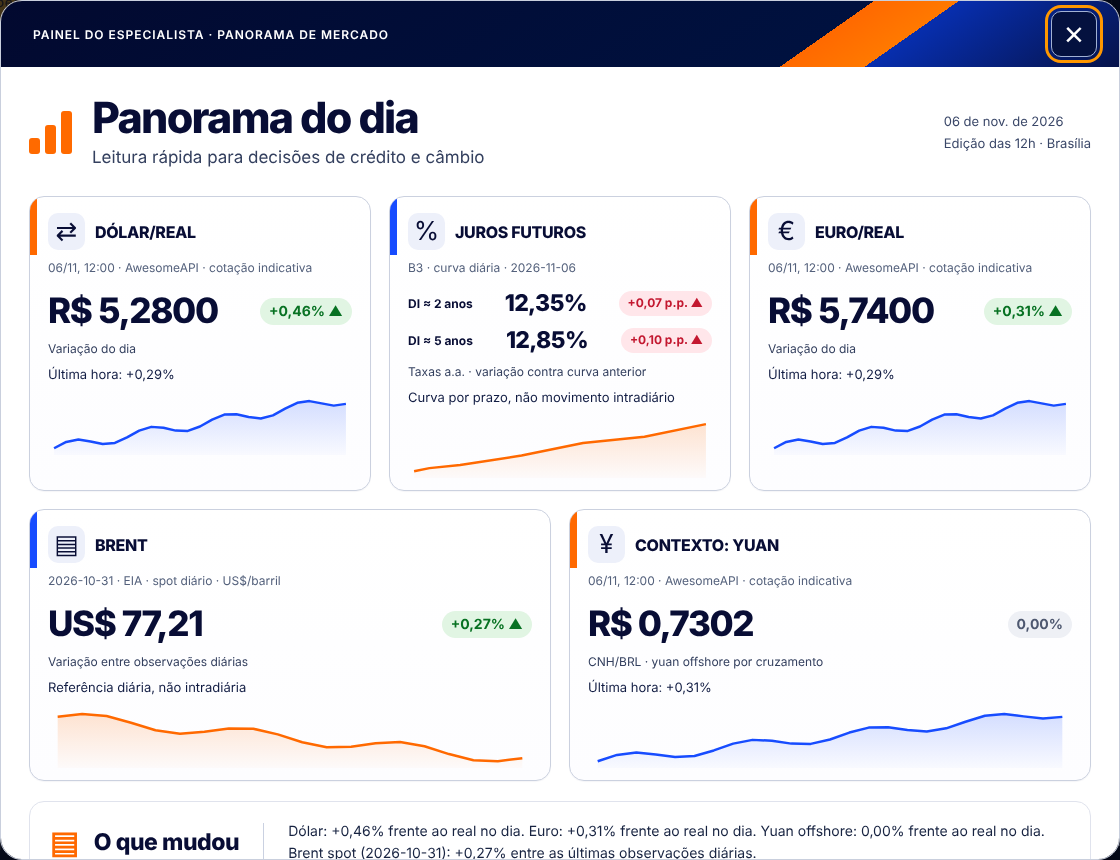
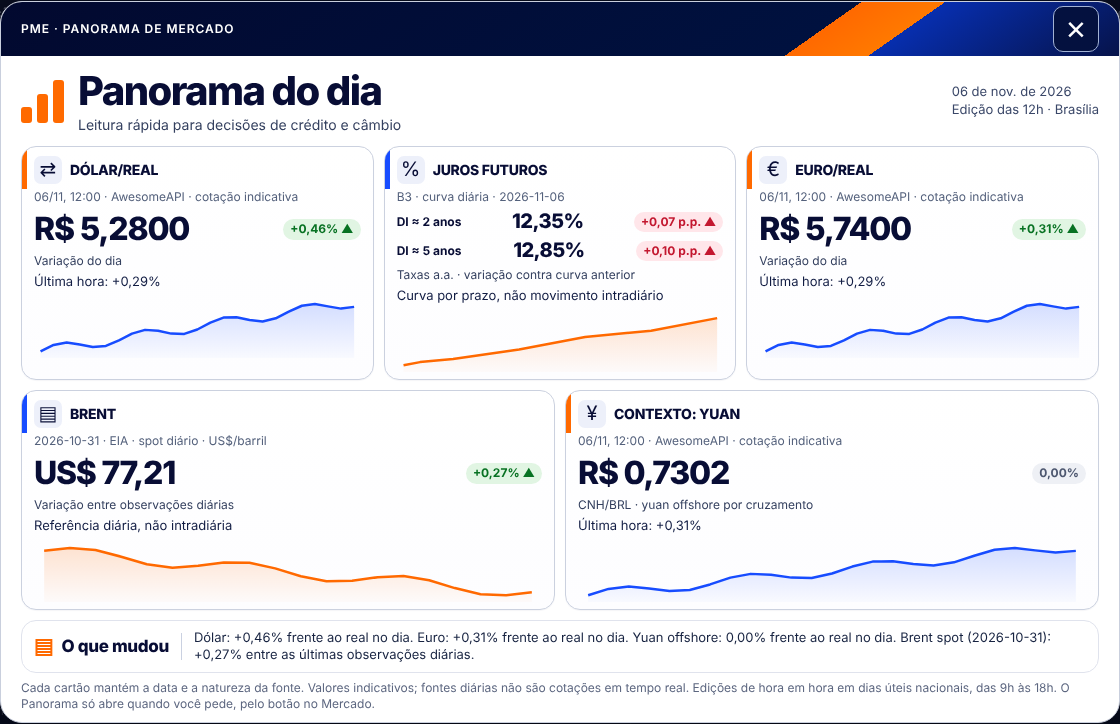
Apresentar: Panorama do dia, veículos pesados, leitura executiva e identificadores por slide
- Mercado: novos blocos Panorama do dia (câmbio, juros futuros, Brent e
  "O que mudou") e Veículos pesados (cartões da ANFAVEA).
- Setores: a leitura executiva de cada setor entra pela escolha do setor.
- Quando a mesma peça aparece em mais de um slide, cada slide ganha
  identificadores próprios nos títulos ligados aos quadros, para o leitor
  de tela anunciar o título certo. As calculadoras ficam de fora, porque
  o visual delas depende dos identificadores originais.
- Conferência de tela cobre os identificadores por slide e a leitura
  executiva. Nota da entrega atualizada.

Claude-Session: https://claude.ai/code/session_01Pj2LmXgGJQn4kDgzN3oi1a

diff --git a/cotacoes/src/Apresentar.css b/cotacoes/src/Apresentar.css
@@ -110,7 +110,7 @@
 .sl-corpo .ctx-head, .sl-corpo .history-head { min-height: 0; margin: 0 0 4px; justify-content: flex-end; }
 
 /* Cenários */
-.sl-corpo #focus-hist-title, .sl-corpo .focus-hist > p.muted + p.muted { display: none; }
+.sl-corpo [id$="focus-hist-title"], .sl-corpo .focus-hist > p.muted + p.muted { display: none; }
 .sl-corpo .focus-hist-grade:has(> :only-child) { grid-template-columns: 1fr; }
 .sl-calendario .cal-filters, .sl-calendario .cal-row .help { display: none; }
 .sl-inadimplencia .credit-controls, .sl-inadimplencia .credit-panel > details ~ p.muted { display: none; }
@@ -120,8 +120,8 @@
 .sl-rj-uf .rj-viz-grid, .sl-rj-setor .rj-viz-grid { grid-template-columns: 1fr; }
 .sl-rj-uf .rj-viz-grid > .rj-card:nth-child(2), .sl-rj-setor .rj-viz-grid > .rj-card:nth-child(1) { display: none; }
 .sl-pesos .infl > h3:first-child, .sl-pesos .infl-hint { display: none; }
-.sl-pesos-grupos #infl-fatores, .sl-pesos-grupos .infl-wrap:has(.infl-factors) { display: none; }
-.sl-pesos-fatores .infl-summary, .sl-pesos-fatores #infl-fatores, .sl-pesos-fatores .infl-wrap:not(:has(.infl-factors)) { display: none; }
+.sl-pesos-grupos [id$="infl-fatores"], .sl-pesos-grupos .infl-wrap:has(.infl-factors) { display: none; }
+.sl-pesos-fatores .infl-summary, .sl-pesos-fatores [id$="infl-fatores"], .sl-pesos-fatores .infl-wrap:not(:has(.infl-factors)) { display: none; }
 
 /* Notícias */
 .sl-noticias ol { list-style: none; margin: 0; padding: 0; display: grid; gap: 12px; }
@@ -210,3 +210,13 @@
 /* Áreas com rolagem própria (tabelas largas) se abrem no slide: assim o ajuste enxerga a largura real e reduz até caber. */
 .sl-miolo [role="region"], .sl-miolo .scroll { overflow: visible !important; max-height: none !important; }
 .sl-corpo .kpi.kpi-taxa { display: grid; } /* no slide, os juros entram como cartões (no painel eles ficam na faixa do topo) */
+
+/* Veículos pesados e Panorama do dia dentro do slide */
+.sl-veiculos .heavy-vehicles { margin: 0; }
+.sl-veiculos .heavy-vehicles > h3, .sl-veiculos .heavy-vehicles > p:has(a), .sl-veiculos .heavy-vehicles > small, .sl-veiculos .heavy-vehicles > a { display: none; }
+.sl-veiculos .heavy-segments { display: grid; grid-template-columns: repeat(2, minmax(0, 1fr)); gap: 16px; }
+.sl-panorama .market-popup { position: static; display: block; width: auto; max-width: none; max-height: none; margin: 0; padding: 0; border: 0; background: none; box-shadow: none; color: inherit; overflow: visible; }
+.sl-leitura dl { display: grid; grid-template-columns: repeat(2, minmax(0, 1fr)); gap: 16px; margin: 16px 0 0; }
+.sl-leitura dl > div { padding: 14px 16px; border: 1px solid #d9dde3; border-left: 4px solid var(--blue); border-radius: 8px; }
+.sl-leitura dt { color: var(--blue); font-size: .8em; font-weight: 600; text-transform: uppercase; letter-spacing: .06em; margin-bottom: 4px; }
+.sl-leitura dd { margin: 0; line-height: 1.45; }

diff --git a/cotacoes/src/apresentarBlocos.jsx b/cotacoes/src/apresentarBlocos.jsx
@@ -6,6 +6,9 @@ import { normalizeIpca } from './ipca.js'
 import { KpiRow } from './TerminalDesk.jsx'
 import HistoryChart from './HistoryChart.jsx'
 import { CambioTabela, ResumoChart, SPARK, useCambio } from './Resumo.jsx'
+import HeavyVehicles from './HeavyVehicles.jsx'
+import { Panorama } from './MarketPopup.jsx'
+import { marketMoment } from './marketPopup.js'
 import { CdiChart, rangeFor } from './Macro.jsx'
 import SofrChart from './Sofr.jsx'
 import CdiFuturo from './CdiFuturo.jsx'
@@ -77,11 +80,20 @@ function CompararMoedas({ ctx }) {
   const [sel, setSel] = useState(['USD', 'EUR'])
   return <ResumoChart comparison colors={ctx.colors} spark={SPARK.find((s) => s.id === 'year')} selection={sel} onSelection={setSel} onPrevious={nada} />
 }
+// Panorama do dia: câmbio, juros futuros, Brent e "O que mudou", como no botão Panorama da aba Mercado.
+function PanoramaSlide({ ctx }) {
+  const oil = useDataFile('oil.json')
+  const [momento] = useState(() => marketMoment())
+  if (!momento) return <Aviso>O Panorama do dia não tem edição disponível neste momento.</Aviso>
+  return <div className="market-popup"><Panorama slot={momento} quotes={ctx.quotes} curves={ctx.curves?.data} oil={oil.data} /></div>
+}
 const MERCADO = [
   { id: 'mercado-cartoes', label: 'Indicadores do dia', dica: 'Dólar, euro, IPCA, Ibovespa, Selic, CDI e DI', titulo: 'Mercado hoje', fonte: 'coleta central do painel, Banco Central, IBGE e B3', Corpo: CartoesMercado },
   { id: 'mercado-cambio', label: 'Tabela de câmbio', dica: 'Cotação, variação do dia, mês, ano e PTAX', titulo: 'Câmbio em reais', fonte: 'coleta central do painel (AwesomeAPI) e PTAX do Banco Central', Corpo: TabelaCambio },
   moeda('USD', 'Dólar'), moeda('EUR', 'Euro'), moeda('JPY', 'Iene'), moeda('CNH', 'Yuan'),
   { id: 'mercado-comparar', sub: 'Gráfico de cada moeda', label: 'Comparação entre moedas', dica: 'Variação em % no último ano', titulo: 'Moedas comparadas · último ano', fonte: 'coleta central do painel (AwesomeAPI)', Corpo: CompararMoedas },
+  { id: 'mercado-panorama', sub: 'Outros quadros do Mercado', label: 'Panorama do dia', dica: 'Câmbio, juros futuros, Brent e o que mudou', titulo: 'Panorama do dia', fonte: 'coleta central do painel, B3 e EIA', classe: 'sl-panorama', Corpo: PanoramaSlide },
+  { id: 'mercado-veiculos-pesados', sub: 'Outros quadros do Mercado', label: 'Veículos pesados', dica: 'Caminhões e ônibus: emplacamento, produção e exportação', titulo: 'Veículos pesados · caminhões e ônibus', fonte: 'ANFAVEA', classe: 'sl-veiculos', Corpo: () => <HeavyVehicles /> },
 ].map((b) => ({ ...b, grupo: 'mercado' }))
 
 // Juros: os mesmos gráficos da aba Juros, com o último ano.

diff --git a/cotacoes/src/apresentarSetores.jsx b/cotacoes/src/apresentarSetores.jsx
@@ -3,6 +3,7 @@ import { useDataFile } from './useDataFile.js'
 import { validSectorStudy } from './sectorStudySchema.js'
 import { CATALOGO_SETORIAL } from './centralSetorial.js'
 import { INSUMOS } from './insumos.js'
+import { SECTOR_HIGHLIGHTS } from './sectorHighlights.js'
 import { ResearchChart } from './ResearchedSectorStudy.jsx'
 import SectorValueChain from './SectorValueChain.jsx'
 import disponiveis from './sectorStudies/catalog.generated.json'
@@ -43,6 +44,13 @@ const BLOCOS_ESTUDOS = ESTUDOS.flatMap((e) => PARTES.map(([parte, nome]) => ({
   Corpo: () => <Estudo grupoId={e.grupo.id} topico={e.i} parte={parte} />,
 })))
 
+// Leitura executiva do setor (a síntese que abre cada setor na Central de setores).
+const idLeitura = (grupoId) => `setores-leitura-${grupoId}`
+const BLOCOS_LEITURA = CATALOGO_SETORIAL.filter((g) => SECTOR_HIGHLIGHTS[g.id]).map((g) => ({
+  id: idLeitura(g.id), grupo: 'setores', oculto: true, label: `${g.label} · Leitura executiva`, titulo: `${g.label} · o essencial`, fonte: 'síntese analítica da Central de setores do painel', classe: 'sl-leitura', zoomMax: 1.8,
+  Corpo: () => { const h = SECTOR_HIGHLIGHTS[g.id]; return <div className="sl-estudo"><p className="sl-estudo-destaque">{h.summary}</p><dl><div><dt>O que acompanhar</dt><dd>{h.drivers}</dd></div><div><dt>Ponto de atenção</dt><dd>{h.attention}</dd></div></dl></div> },
+}))
+
 // Escolha do estudo: setor, recorte e os slides daquele recorte.
 export function SeletorEstudos({ sel, onSel }) {
   const grupos = CATALOGO_SETORIAL.filter((g) => ESTUDOS.some((e) => e.grupo.id === g.id))
@@ -58,6 +66,12 @@ export function SeletorEstudos({ sel, onSel }) {
           {grupos.map((g) => <option key={g.id} value={g.id}>{g.label}</option>)}
         </select>
       </label>
+      {SECTOR_HIGHLIGHTS[grupoId] && (
+        <label className="apz-opcao">
+          <input type="checkbox" checked={sel.includes(idLeitura(grupoId))} onChange={() => onSel(alternar(sel, idLeitura(grupoId)))} />
+          <span>Leitura executiva do setor<small>O essencial, o que acompanhar e o ponto de atenção</small></span>
+        </label>
+      )}
       <label>Recorte do estudo
         <select value={atual.chave} onChange={(e) => setChave(e.target.value)}>
           {recortes.map((e) => <option key={e.chave} value={e.chave}>{e.nome}</option>)}
@@ -81,4 +95,4 @@ const BLOCOS_INSUMOS = INSUMOS.filter((i) => i.move?.length).map((i) => ({
   Corpo: () => <ul className="sl-lista">{i.move.map((texto) => <li key={texto}>{texto}</li>)}</ul>,
 }))
 
-export const SETORES = [...BLOCOS_ESTUDOS, ...BLOCOS_INSUMOS]
+export const SETORES = [...BLOCOS_LEITURA, ...BLOCOS_ESTUDOS, ...BLOCOS_INSUMOS]

diff --git a/cotacoes/src/Apresentar.jsx b/cotacoes/src/Apresentar.jsx
@@ -6,6 +6,7 @@ import { fadeIn } from './motion.js'
 import { PALCO, alternar, alternarVarios, buscarBlocos, contarPorGrupo, dataCapa, dataHora, escala, guardarMontagem, lerMontagem, mover, passoTecla, validos } from './apresentar.js'
 import { BLOCOS, BLOCO_POR_ID, GRUPOS } from './apresentarBlocos.jsx'
 import Ajuste from './ApresentarAjuste.jsx'
+import { isolarIds } from './apresentarIds.js'
 
 // Apresentar: o usuário marca blocos do painel e cada um vira um slide claro, em formato de apresentação.
 // Os slides usam as próprias peças do painel, então os números são os mesmos das outras abas.
@@ -34,13 +35,25 @@ function Capa({ cliente, setor, agora }) {
 
 function Slide({ bloco, ctx, numero, total, cliente, opcoes, onOpcoes, ativo }) {
   const Corpo = bloco.Corpo
+  const corpo = useRef(null)
+  // Identificadores próprios por slide (ver apresentarIds.js). As calculadoras ficam de fora: o visual delas depende dos identificadores originais.
+  useEffect(() => {
+    const el = corpo.current
+    if (!el || bloco.semAjuste) return
+    let quadro = 0
+    const aplicar = () => isolarIds(el, `${bloco.id}--`)
+    aplicar()
+    const mo = new MutationObserver(() => { cancelAnimationFrame(quadro); quadro = requestAnimationFrame(aplicar) })
+    mo.observe(el, { childList: true, subtree: true })
+    return () => { mo.disconnect(); cancelAnimationFrame(quadro) }
+  }, [bloco.id, bloco.semAjuste])
   return (
     <article className={`sl sl-g-${bloco.grupo}${bloco.classe ? ` ${bloco.classe}` : ''}`}>
       <header className="sl-topo">
         <p className="sl-secao">{GRUPOS.find((g) => g.id === bloco.grupo)?.label}</p>
         <h2>{bloco.titulo ?? bloco.label}</h2>
       </header>
-      <div className="sl-corpo">
+      <div className="sl-corpo" ref={corpo}>
         <QuadroSeguro>
           <Suspense fallback={<p className="sl-aviso" role="status">Carregando…</p>}>
             {bloco.semAjuste ? <Corpo ctx={ctx} opcoes={opcoes} onOpcoes={onOpcoes} ativo={ativo} /> : <Ajuste min={bloco.zoomMin} max={bloco.zoomMax}><Corpo ctx={ctx} opcoes={opcoes} onOpcoes={onOpcoes} ativo={ativo} /></Ajuste>}

diff --git a/cotacoes/src/apresentarIds.js b/cotacoes/src/apresentarIds.js
@@ -1,0 +1,27 @@
+// Vários slides podem usar a mesma peça do painel, e cada peça traz identificadores fixos para ligar um quadro ao seu título
+// (aria-labelledby, aria-describedby, rótulo de campo). Com a peça repetida na página, o leitor de tela anunciaria o título
+// do primeiro slide em todos. Aqui cada slide ganha um prefixo próprio nos identificadores que são alvo dessas ligações.
+// Só entram os identificadores referenciados dentro do próprio slide; os demais (e os de dentro de gráficos) ficam como estão.
+const LIGACOES = ['aria-labelledby', 'aria-describedby', 'aria-controls', 'aria-owns', 'for']
+const SELETOR = LIGACOES.map((a) => `[${a}]`).join(',')
+
+export function isolarIds(raiz, prefixo) {
+  const alvos = new Set()
+  const ligados = [...raiz.querySelectorAll(SELETOR)]
+  for (const el of ligados) for (const a of LIGACOES) for (const id of (el.getAttribute(a) ?? '').split(/\s+/)) if (id && !id.startsWith(prefixo)) alvos.add(id)
+  if (!alvos.size) return 0
+  const trocas = new Map()
+  for (const el of raiz.querySelectorAll('[id]')) {
+    if (!alvos.has(el.id) || el.closest('svg')) continue
+    trocas.set(el.id, prefixo + el.id)
+    el.id = prefixo + el.id
+  }
+  if (!trocas.size) return 0
+  for (const el of ligados) for (const a of LIGACOES) {
+    const valor = el.getAttribute(a)
+    if (!valor) continue
+    const novo = valor.split(/\s+/).map((id) => trocas.get(id) ?? id).join(' ')
+    if (novo !== valor) el.setAttribute(a, novo)
+  }
+  return trocas.size
+}

diff --git a/cotacoes/src/MarketPopup.jsx b/cotacoes/src/MarketPopup.jsx
@@ -30,7 +30,8 @@ function QuoteCard({ item, daily=false }) {
 function MarketHeading({ slot }) {
   return <div className="mp-title-row"><span className="mp-chart-icon" aria-hidden="true"><i/><i/><i/></span><div><h2 id="market-popup-title">Panorama do dia</h2><p>Leitura rápida para decisões de crédito e câmbio</p></div><p className="mp-edition">{slot && <>{new Date(slot.day+'T12:00:00Z').toLocaleDateString('pt-BR',{day:'2-digit',month:'short',year:'numeric',timeZone:'UTC'})}<br/>{slot.hour!=null?<>Edição das {slot.hour}h · Brasília</>:'Fora do horário das edições · últimos dados'}</>}</p></div>
 }
-function Panorama({ slot, quotes, curves, oil }) {
+// Exportado para a aba Apresentar, que mostra o mesmo quadro dentro de um slide.
+export function Panorama({ slot, quotes, curves, oil }) {
   const day=fromInput(slot.day)
   const usd=useIntraday('USD',day), eur=useIntraday('EUR',day), cnh=useIntraday('CNH',day)
   const now=Date.now()

diff --git a/docs/apresentar-por-selecao.md b/docs/apresentar-por-selecao.md
@@ -14,12 +14,12 @@ perguntas da visita) foi removida. A aba agora aparece no menu.
 ## O que pode virar slide
 | Seção | Blocos |
 |---|---|
-| Mercado | indicadores do dia (com Selic, CDI e DI), tabela de câmbio, gráfico de cada moeda, comparação entre moedas |
+| Mercado | indicadores do dia (com Selic, CDI e DI), tabela de câmbio, gráfico de cada moeda, comparação entre moedas, Panorama do dia, veículos pesados |
 | Juros | CDI, CDI futuro, DI x pré, cupom cambial, SOFR, Fed, €STR, BCE, Japão, Treasuries, curva do euro |
 | Cenários | Focus e bancos, histórico do Focus (geral e por indicador), agenda da semana, inadimplência, recuperação judicial (números, estado, setor), atividade e emprego, indexadores, IPCA, IPCA por grupos, fatores da inflação, dívida pública, commodities (tabelas e gráfico de cada referência), combustíveis, frete |
 | Notícias | por tema: mercado e moedas, tributos e trabalho, setores e insumos; a lista "Escolher notícias" tira manchetes |
 | BNDES | resumo do dia, tabelas TFB, TLP, TFC (em dois slides) e moedas, histórico de 12 meses das quatro referências |
-| Setores | por estudo: resumo executivo, cadeia de valor, indicadores e perguntas; por insumo: o que move o preço |
+| Setores | por setor: leitura executiva; por estudo: resumo executivo, cadeia de valor, indicadores e perguntas; por insumo: o que move o preço |
 | Bancos | tabela comparativa e histórico de quatro indicadores |
 | Feriados | próximos três meses com feriado |
 | Calculadoras | as 12 calculadoras, em dois modos: **Resultado** (números principais) e **Dados** (campos) |
@@ -46,12 +46,12 @@ Aprender e Configurações ficam de fora.
   para o Focus e para os indicadores dos bancos.
 - Calculadoras sem valores iniciais abrem no modo Dados, com rolagem dentro do slide.
 
-## Ficou de fora desta entrega
-- Panorama do dia, buscas do Google (Trends) e o quadro de veículos pesados da aba Mercado. Os dois últimos têm
-  rolagem própria ou conteúdo de terceiros e não cabem bem num slide; veículos pesados entra como tema de notícias.
-- Destaques e pautas da Central de setores (só os estudos e os insumos viram slide).
-- Quando o mesmo quadro aparece em mais de um slide, os identificadores internos se repetem na página. O efeito é só
-  para leitor de tela (pode anunciar o título do primeiro). Correção fica para um ajuste próprio nas peças de origem.
+## Ficou de fora
+- Buscas do Google (Trends): o gráfico é carregado direto do Google, o painel não confirma o conteúdo e ele não cabe
+  bem num slide.
+- Pautas editoriais da Central de setores (são roteiro de pesquisa, não conteúdo para cliente).
+- Finame e 4131 usam os mesmos identificadores internos; se os dois estiverem na mesma apresentação, um leitor de tela
+  pode anunciar o título do primeiro. Os demais slides têm identificadores próprios (`apresentarIds.js`).
 
 ## Revisão independente (17/11/2026)
 Leitura do código por revisor sem o histórico da montagem. Um ponto importante, corrigido: com uma janela de detalhe
